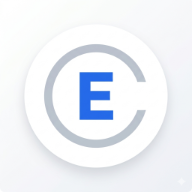
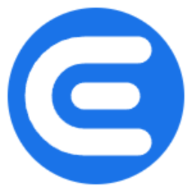
Initial setup

diff --git a/html/css/style.css b/html/css/style.css
@@ -225,21 +225,26 @@ body {
 }
 /* Base Layout Sizing */
 /* Add an 'open' class to your icon/button when the menu is active */
-.nav-trigger-icon {
+
+.nav-trigger-favicon {
+  width: 32px;
+  height: 32px;
+  display: inline-block;
+  vertical-align: middle;
   transition: transform 0.3s cubic-bezier(0.4, 0, 0.2, 1);
 }
 
 /* Micro-interaction on click */
-.nav-trigger-icon:active {
+.nav-trigger-favicon:active {
   transform: scale(0.9);
 }
 
 /* Optional: If the side nav stays open, rotate the icon slightly to show it's active */
-.nav-trigger-icon.is-open {
+.nav-trigger-favicon.is-open {
   transform: rotate(-90deg);
 }
 
-.nav-trigger-icon:hover {
+.nav-trigger-favicon:hover {
   transform: scale(1.05);
 }
 
@@ -249,22 +254,33 @@ body {
   transition: fill 0.3s ease;
 }
 
-.letter-c,
-.letter-e {
+.fav-bg {
+  fill: var(--fav-bg-color);
+  transition: fill 0.3s ease;
+}
+
+.fav-letters {
   fill: none;
-  stroke-width: 8;
+  stroke: var(--fav-stroke-color);
+  stroke-width: 14;          /* Ultra-thick line weight for micro-rendering */
   stroke-linecap: round;
   stroke-linejoin: round;
   transition: stroke 0.3s ease;
 }
 
-.letter-c {
-  stroke: var(--c-stroke-color);
+/* ==========================================================================
+   Theme Variables
+   ========================================================================== */
+body.dayMode {
+  --fav-bg-color: #1A73E8;      /* Google Tech Blue background for maximum pop */
+  --fav-stroke-color: #FFFFFF;  /* Crisp white geometric letters */
 }
 
-.letter-e {
-  stroke: var(--e-stroke-color);
+body.nightMode {
+  --fav-bg-color: #303134;      /* Deep material dark gray container */
+  --fav-stroke-color: #8AB4F8;  /* Vivid, glowing pastel blue letters */
 }
+
 .brand-cloud {
   color: var(--text-primary);
   font-weight: 500;

diff --git a/html/views/components/head.php b/html/views/components/head.php
@@ -70,7 +70,7 @@ if (!empty($share_image_name)) {
   <title><?= $meta['title']; ?></title>
   <?
   $favicon = array_merge(array(
-    'favicon' => $this->config['base_url'] . '/favicon.ico',
+    'favicon' => $this->config['base_url'] . '/images/favicon.svg',
     'favicon-16x16' => $this->config['base_url'] . '/favicon-16x16.png',
     'favicon-32x32' => $this->config['base_url'] . '/favicon-32x32.png',
     'apple-touch-icon-180x180' => $this->config['base_url'] . '/apple-touch-icon-180x180.png',
@@ -79,9 +79,8 @@ if (!empty($share_image_name)) {
   ), $this->get('favicon', []));
   ?>
   <!-- Standard Icons -->
-  <link rel="icon" type="image/x-icon" href="<?= $favicon['favicon'] ?>">
-  <link rel="icon" type="image/png" sizes="16x16" href="<?= $favicon['favicon-16x16'] ?>">
-  <link rel="icon" type="image/png" sizes="32x32" href="<?= $favicon['favicon-32x32'] ?>">
[1 lines of base64/hex data omitted]
+
 
   <!-- Android / Chrome -->
   <link rel="icon" type="image/png" sizes="192x192" href="<?= $favicon['android-chrome-192x192'] ?>">

diff --git a/html/views/components/nav_trigger_icon.php b/html/views/components/nav_trigger_icon.php
@@ -6,13 +6,16 @@ if (!defined('MB_RUNNING')) exit;
  */
 ?>
 
-<svg class="nav-trigger-icon" style="width: <?= $size ?>px; height: <?= $size ?>px;" viewBox="0 0 100 100" xmlns="http://w3.org">
-  <!-- Outer circular background track -->
-  <circle cx="50" cy="50" r="46" class="icon-bg" />
-
-  <!-- "C" Outer ring envelope -->
-  <path d="M 76,34 A 32,32 0 1,0 76,66" class="letter-c" />
-
-  <!-- "E" Inner core element -->
-  <path d="M 44,38 H 64 M 44,50 H 60 M 44,62 H 64 M 44,38 V 62" class="letter-e" />
+<svg class="nav-trigger-favicon" style="width: <?= $size ?>px; height: <?= $size ?>px;" viewBox="0 0 100 100" xmlns="http://w3.org">
+  <!-- Solid backing circle for high-contrast visibility against tab colors -->
+  <circle cx="50" cy="50" r="46" class="fav-bg" />
+  
+  <!-- Unified 'C' and 'E' single-path construction -->
+  <path d="M 72,26 
+           H 44 
+           A 24,24 0 0,0 44,74 
+           H 72 
+           M 44,50 
+           H 66" 
+        class="fav-letters" />
 </svg>

diff --git a/html/apps/neighborhub/neighborhub.app.php b/html/apps/neighborhub/neighborhub.app.php
@@ -39,7 +39,7 @@ function neighborhub_info(&$app)
     'public_app' => true,
     'version' => "0.1",
     'favicon' => array(
-      'favicon' => $app->config['base_url'] . '/images/favicon.ico',
+      'favicon' => $app->config['base_url'] . '/images/favicon.svg',
       'favicon-32x32' => $app->config['base_url'] . '/images/favicon-32x32.png',
       'favicon-16x16' => $app->config['base_url'] . '/images/favicon-16x16.png',
       'android-chrome-512x512' => $app->config['base_url'] . '/images/android-chrome-512x512.png',
